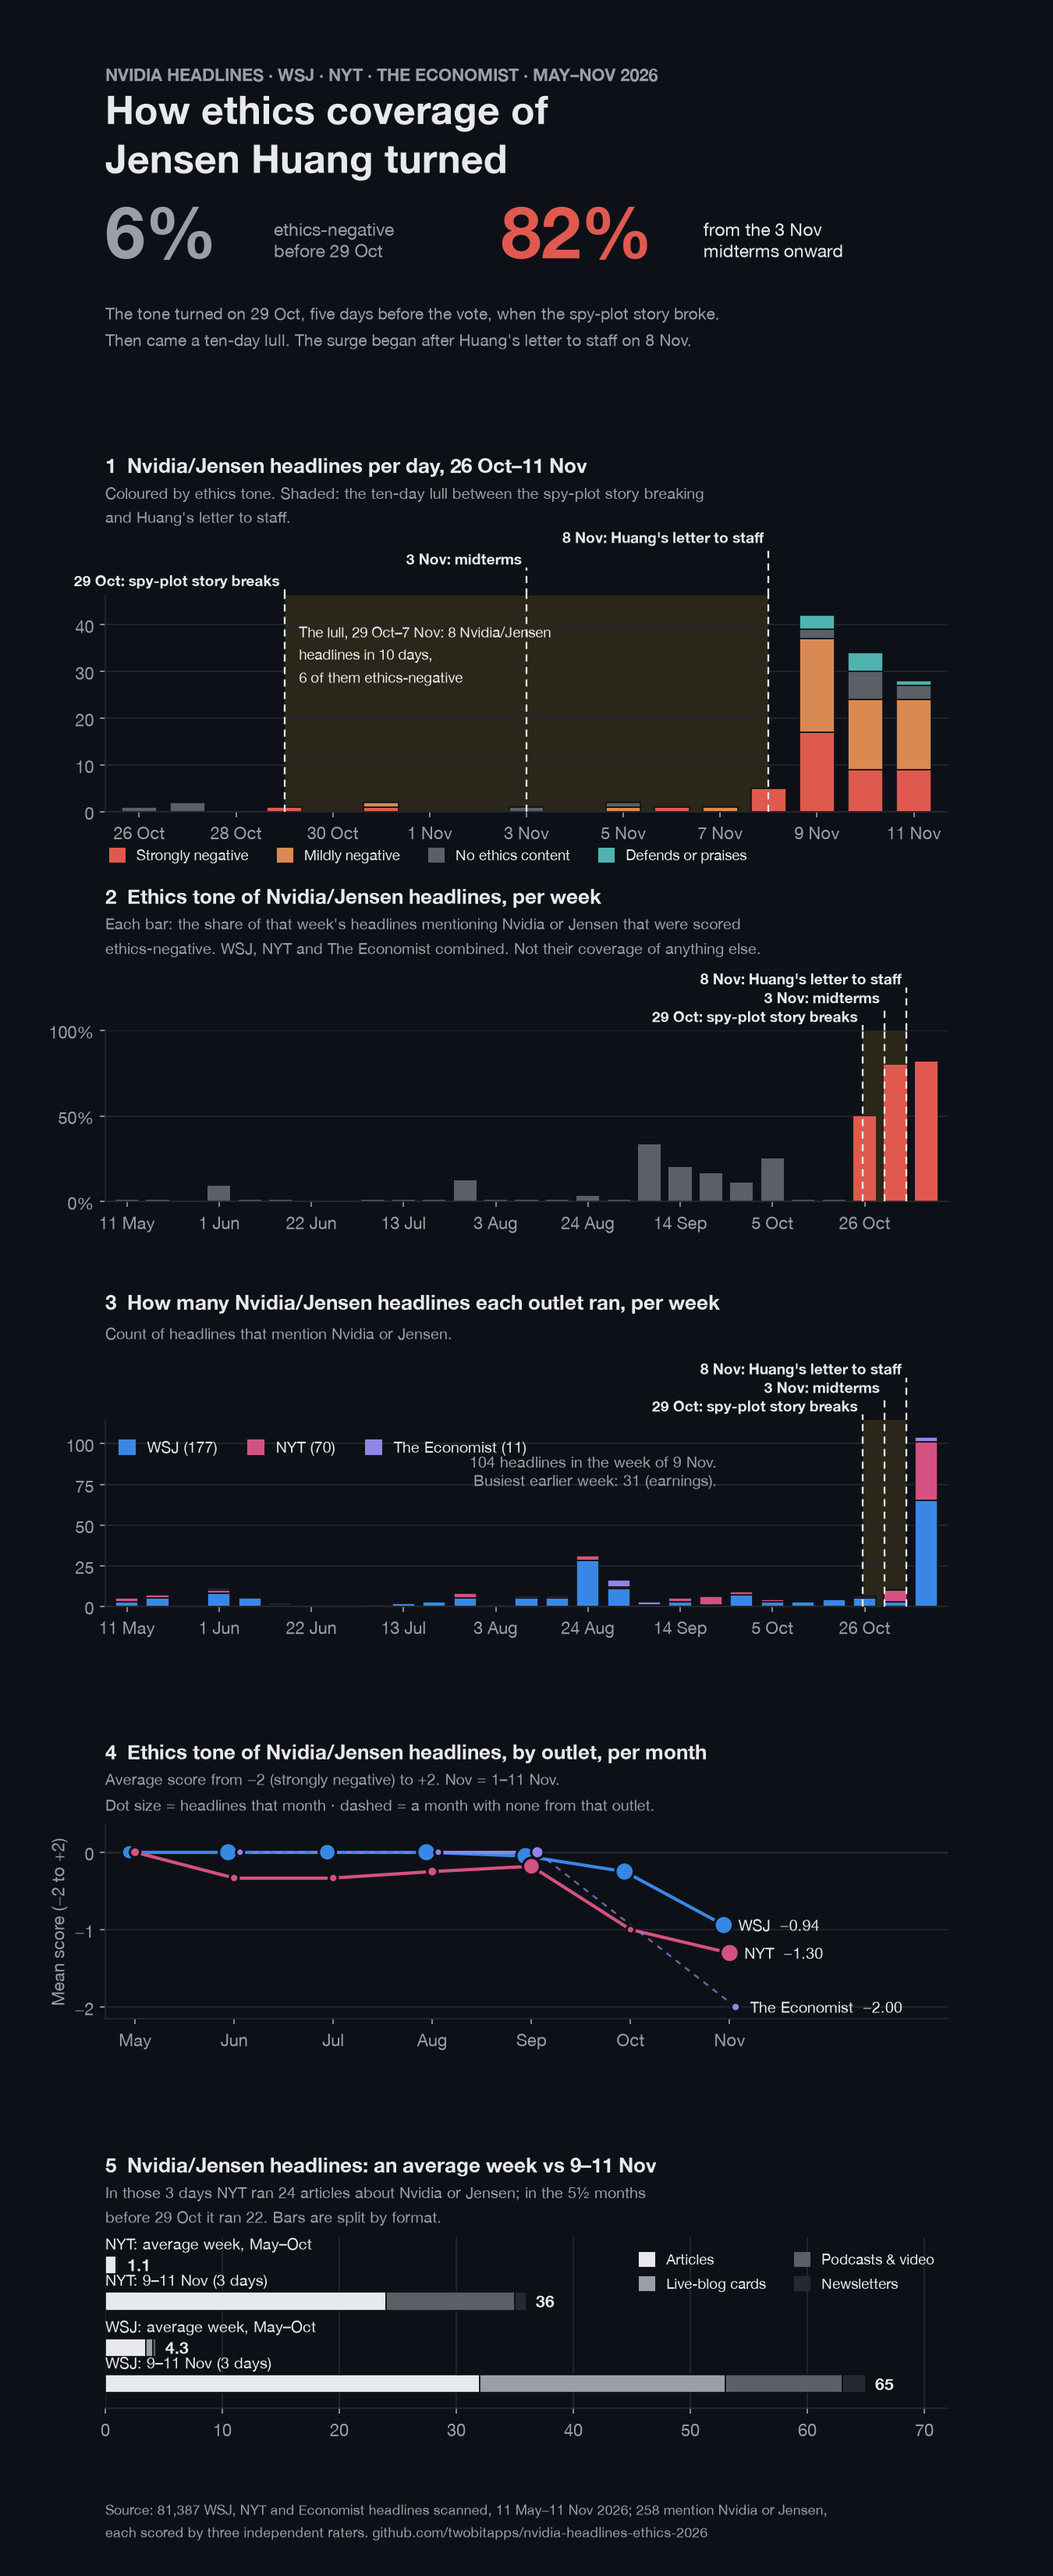
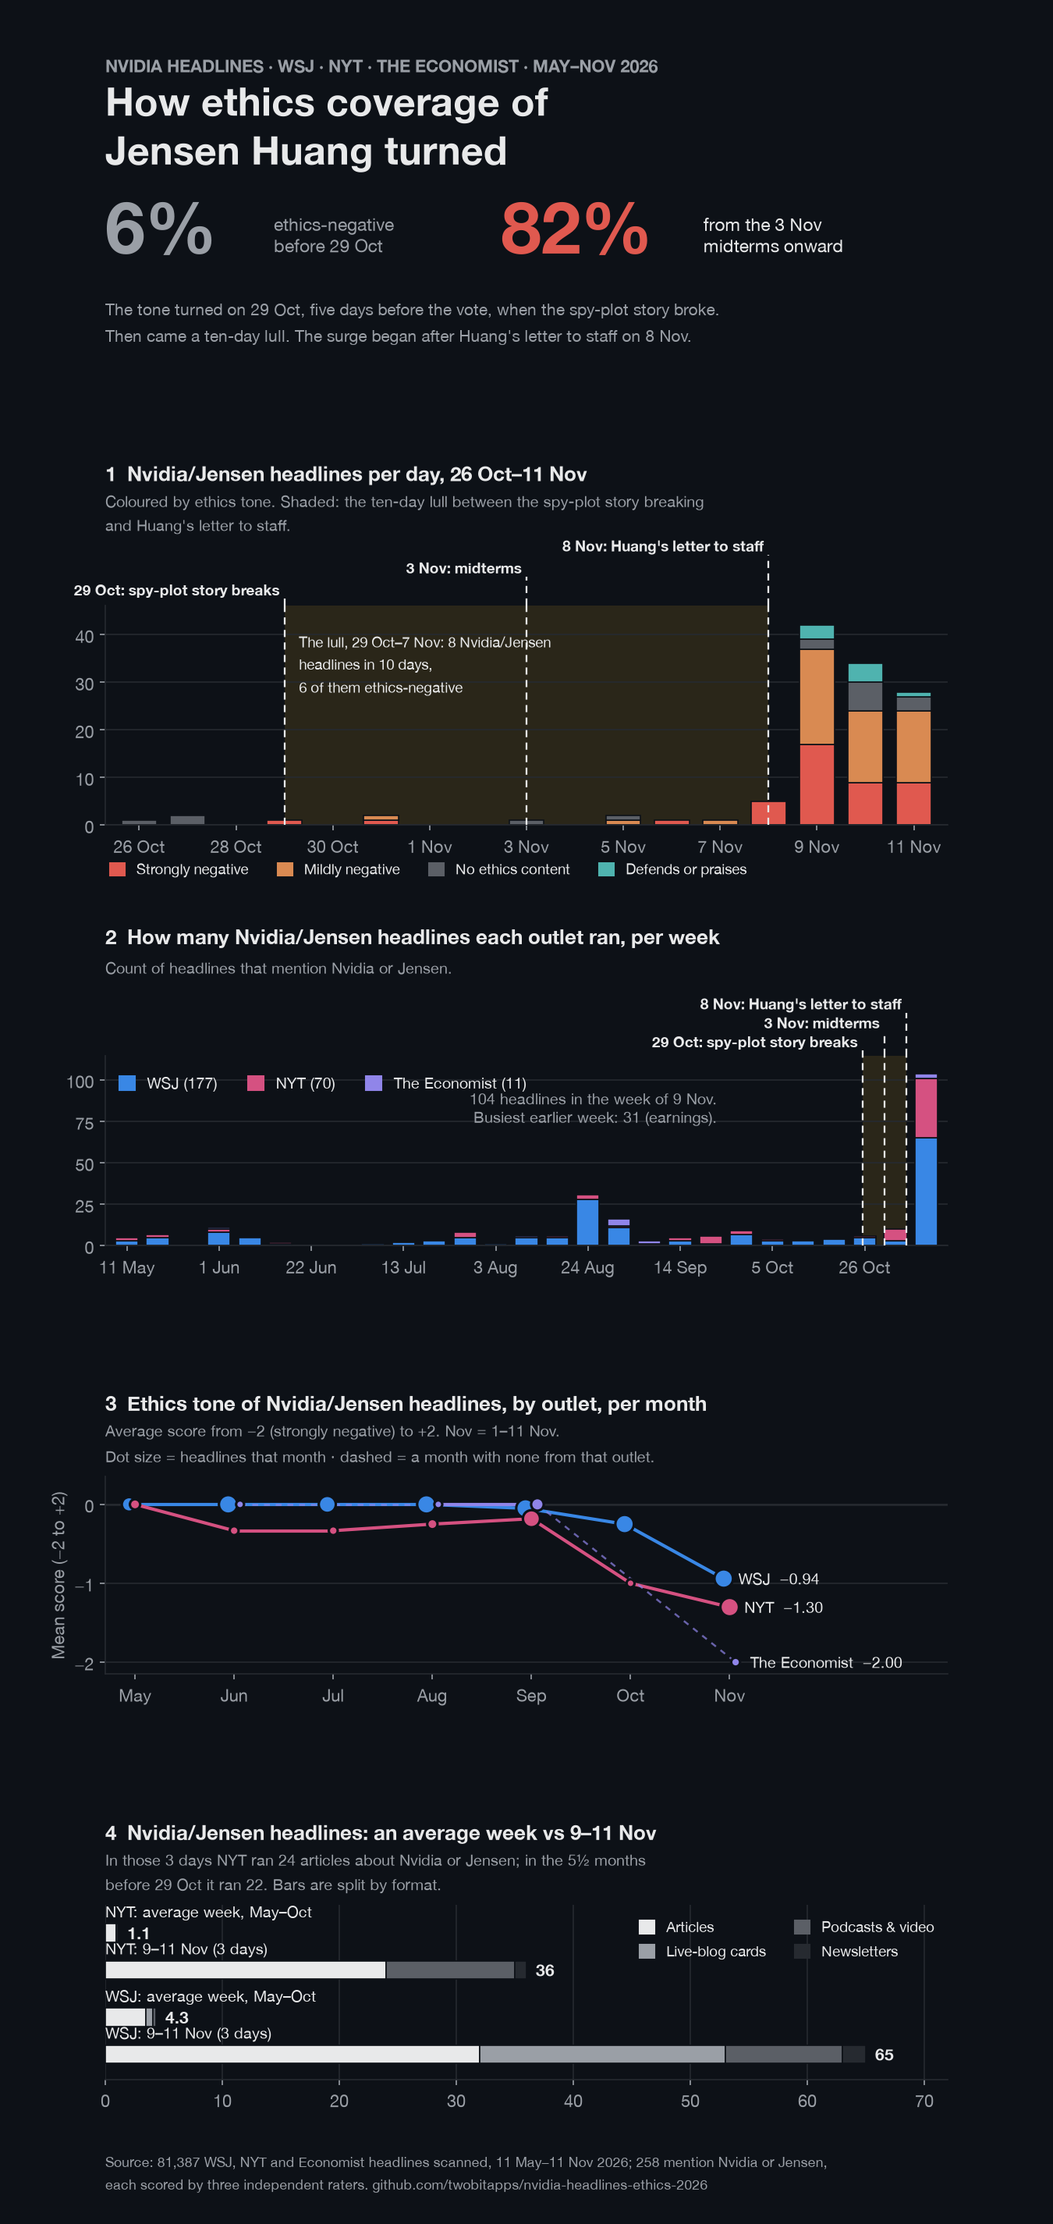
Summary image: drop the weekly-tone panel
The monthly tone-by-outlet panel already shows the six-month baseline,
so the weekly ethics-share panel was redundant. Four panels remain.

diff --git a/scripts/analyze.py b/scripts/analyze.py
@@ -471,8 +471,8 @@ def content_kind(url):
 def poster(rows, summary, path):
     import matplotlib.gridspec as gridspec
     corpus = json.loads((ROOT / "data" / "corpus.json").read_text(encoding="utf-8"))
-    fig = plt.figure(figsize=(9, 22), dpi=150)
-    gs = gridspec.GridSpec(6, 1, figure=fig, height_ratios=[2.1, 1.45, 1.15, 1.25, 1.3, 1.15],
+    fig = plt.figure(figsize=(9, 19), dpi=150)
+    gs = gridspec.GridSpec(5, 1, figure=fig, height_ratios=[2.1, 1.45, 1.25, 1.3, 1.15],
                            hspace=1.05, left=0.1, right=0.9, top=0.975, bottom=0.065)
 
     # 1. header
@@ -523,25 +523,8 @@ def poster(rows, summary, path):
                 "Coloured by ethics tone. Shaded: the ten-day lull between the spy-plot story breaking\n"
                 "and Huang's letter to staff.", 1.30)
 
-    # 2. weekly ethics-negative share
+    # 2. volume by outlet
     ax = fig.add_subplot(gs[2])
-    for i, w in enumerate(weeks()):
-        g = [r for r in rows if in_week(r, w)]
-        if g:
-            share = sum(r["median_score"] < 0 for r in g) / len(g)
-            ax.bar(i, max(share, 0.012), width=0.74,
-                   color=T["tone"][0] if w + timedelta(days=6) >= STORY_BREAK else T["tone"][2])
-    ax.set_ylim(0, 1)
-    ax.set_yticks([0, 0.5, 1], ["0%", "50%", "100%"])
-    grid_y(ax); week_ticks(ax)
-    events(ax, week_x, base=1.03, step=0.11, fontsize=9)
-    ax.axvspan(week_x(STORY_BREAK), week_x(ADMISSION), color=T["lull"], zorder=0, lw=0)
-    panel_title(ax, "2  Ethics tone of Nvidia/Jensen headlines, per week",
-                "Each bar: the share of that week's headlines mentioning Nvidia or Jensen that were scored\n"
-                "ethics-negative. WSJ, NYT and The Economist combined. Not their coverage of anything else.", 1.40)
-
-    # 3. volume by outlet
-    ax = fig.add_subplot(gs[3])
     top = 0
     for i, w in enumerate(weeks()):
         bottom = 0
@@ -562,11 +545,11 @@ def poster(rows, summary, path):
     ax.legend([plt.Rectangle((0, 0), 1, 1, color=T["outlet"][o]) for o in OUTLETS],
               [f"{o} ({totals[o]})" for o in OUTLETS], ncol=3, frameon=False, loc="upper left",
               bbox_to_anchor=(0, 0.98), fontsize=9.5, handlelength=1, handleheight=1)
-    panel_title(ax, "3  How many Nvidia/Jensen headlines each outlet ran, per week",
+    panel_title(ax, "2  How many Nvidia/Jensen headlines each outlet ran, per week",
                 "Count of headlines that mention Nvidia or Jensen.", 1.40)
 
     # 4. monthly tone by outlet
-    ax = fig.add_subplot(gs[4])
+    ax = fig.add_subplot(gs[3])
     months = [(2026, m) for m in range(5, 12)]
     ax.axhline(0, color=T["grid"], lw=1.2)
     for k, o in enumerate(OUTLETS):
@@ -590,12 +573,12 @@ def poster(rows, summary, path):
     ax.set_yticks([-2, -1, 0], ["−2", "−1", "0"])
     grid_y(ax)
     ax.set_ylabel("Mean score (−2 to +2)")
-    panel_title(ax, "4  Ethics tone of Nvidia/Jensen headlines, by outlet, per month",
+    panel_title(ax, "3  Ethics tone of Nvidia/Jensen headlines, by outlet, per month",
                 "Average score from −2 (strongly negative) to +2. Nov = 1–11 Nov.\n"
                 "Dot size = headlines that month · dashed = a month with none from that outlet.", 1.04)
 
     # 5. normal week vs 9–11 Nov, by format
-    ax = fig.add_subplot(gs[5])
+    ax = fig.add_subplot(gs[4])
     kinds = ["Articles", "Live-blog cards", "Podcasts & video", "Newsletters"]
     nyt_pre_art = sum(1 for r in rows if r["outlet"] == "NYT" and r["date"] < STORY_BREAK and content_kind(r["url"]) == "Articles")
     nyt_surge_art = sum(1 for r in rows if r["outlet"] == "NYT" and date(2026, 11, 9) <= r["date"] <= date(2026, 11, 11)
@@ -626,7 +609,7 @@ def poster(rows, summary, path):
     ax.set_xlim(0, 72)
     ax.legend([plt.Rectangle((0, 0), 1, 1, color=c) for c in kind_col], kinds, ncol=2, frameon=False,
               loc="upper right", bbox_to_anchor=(1.0, 1.0), fontsize=9, handlelength=1, handleheight=1)
-    panel_title(ax, "5  Nvidia/Jensen headlines: an average week vs 9–11 Nov",
+    panel_title(ax, "4  Nvidia/Jensen headlines: an average week vs 9–11 Nov",
                 f"In those 3 days NYT ran {nyt_surge_art} articles about Nvidia or Jensen; in the 5½ months\n"
                 f"before 29 Oct it ran {nyt_pre_art}. Bars are split by format.", 1.04)
 
